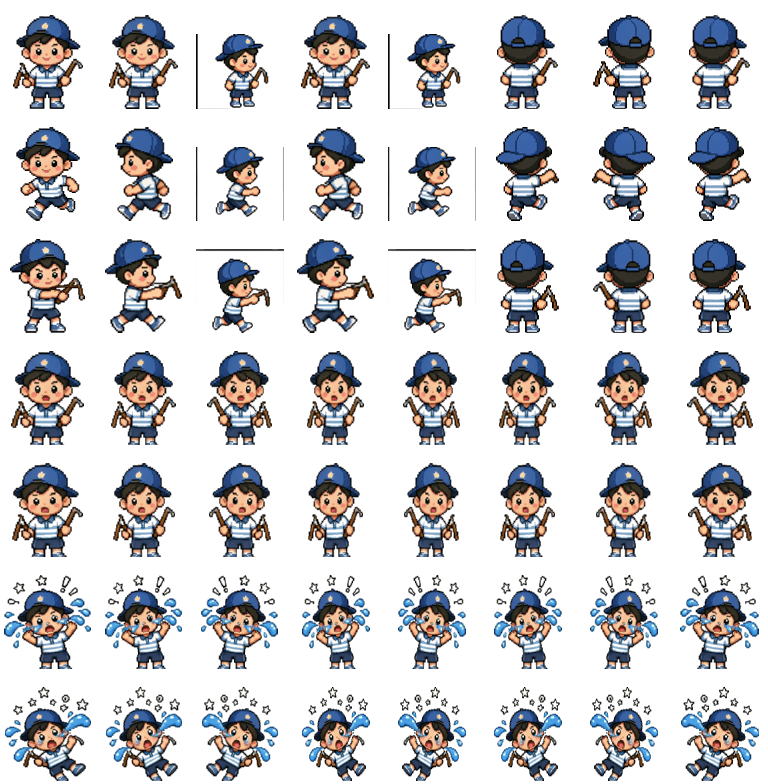
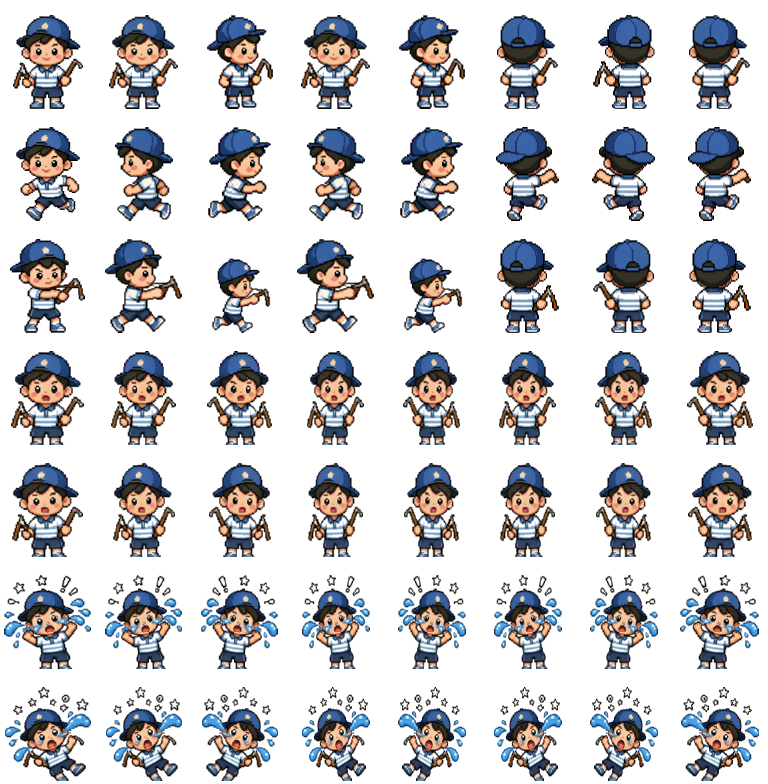
修复机灵鬼右方向白底：图集生成按连通域面积清除大面积纯白背景，先清白底再剥边框

Changed region(s): [[0.5, 0.0, 0.625, 0.2755], [0.25, 0.0, 0.375, 0.2755]]

diff --git a/scripts/build-game-atlas.js b/scripts/build-game-atlas.js
@@ -162,6 +162,41 @@ function cleanEdgeLines(src, box) {
     for (let y = box.y; y < box.y + box.h; y++) if (alphaAt(outerX, y) > 40) outerCnt++;
     return outerCnt < box.h * 0.3;
   }
+  // 大块纯白背景清除函数（侧面真方向帧带白底）。见下方说明。
+  function clearWhiteBackgrounds() {
+    const isWhite = (x, y) => {
+      const p = (y * src.w + x) * 4;
+      if (src.data[p + 3] < 20) return false;
+      const r = src.data[p], g = src.data[p + 1], b = src.data[p + 2];
+      return r > 222 && g > 222 && b > 222 && (Math.max(r, g, b) - Math.min(r, g, b)) < 20;
+    };
+    const seen = new Uint8Array(src.w * src.h);
+    const areaThreshold = box.w * box.h * 0.08;
+    for (let y = box.y; y < box.y + box.h; y++) {
+      for (let x = box.x; x < box.x + box.w; x++) {
+        const start = y * src.w + x;
+        if (seen[start] || !isWhite(x, y)) continue;
+        const stack = [start]; seen[start] = 1;
+        const cells = [];
+        while (stack.length) {
+          const cur = stack.pop(), cy = (cur / src.w) | 0, cx = cur - cy * src.w;
+          cells.push(cur);
+          for (let dy = -1; dy <= 1; dy++) {
+            for (let dx = -1; dx <= 1; dx++) {
+              const nx = cx + dx, ny = cy + dy;
+              if (nx < box.x || ny < box.y || nx >= box.x + box.w || ny >= box.y + box.h) continue;
+              const ni = ny * src.w + nx;
+              if (seen[ni] || !isWhite(nx, ny)) continue;
+              seen[ni] = 1; stack.push(ni);
+            }
+          }
+        }
+        if (cells.length > areaThreshold) for (const idx of cells) src.data[idx * 4 + 3] = 0;
+      }
+    }
+  }
+  // 先清白底：否则白块会挡住其下的边框线，导致边框剥离漏清；白清掉后边框暴露再剥离
+  clearWhiteBackgrounds();
   // 反复剥离：部分帧同时存在黑框 + 内层灰线；每轮重算边界，直到没有新线
   for (let pass = 0; pass < 8; pass++) {
     let changed = false;
@@ -179,6 +214,8 @@ function cleanEdgeLines(src, box) {
     }
     if (!changed) break;
   }
+  // 边框剥离后再清一次白底（边框剥离可能让新的白色区域暴露成大片）
+  clearWhiteBackgrounds();
   // 清除孤立杂点：边框清理后常残留 1~2 个独立灰点，它们会把 alphaBBox 撑大，
   // 导致角色在格子顶部/侧面出现一条线。孤立点 = 8 邻域内不透明邻居 <= 1。
   for (let y = box.y; y < box.y + box.h; y++) {
